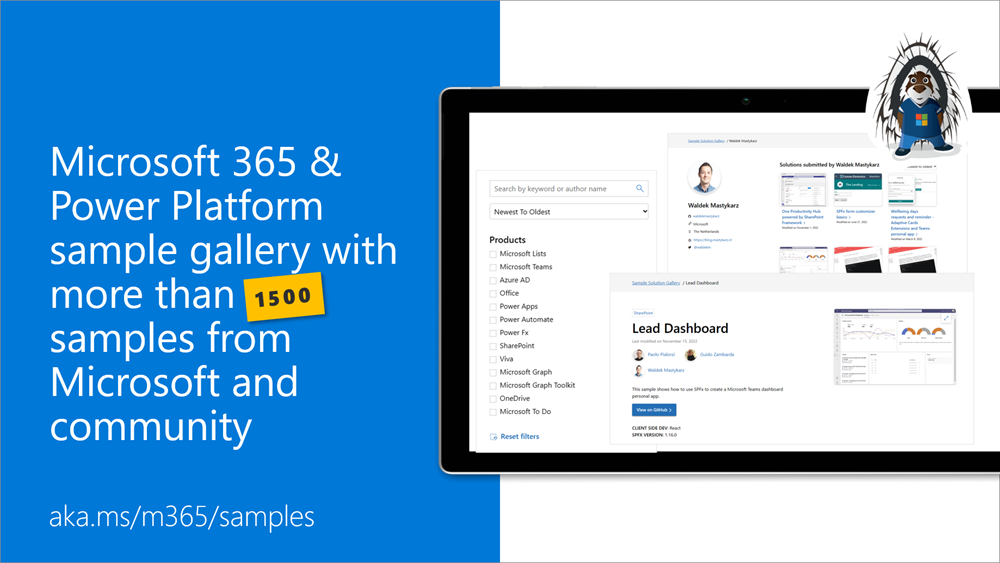
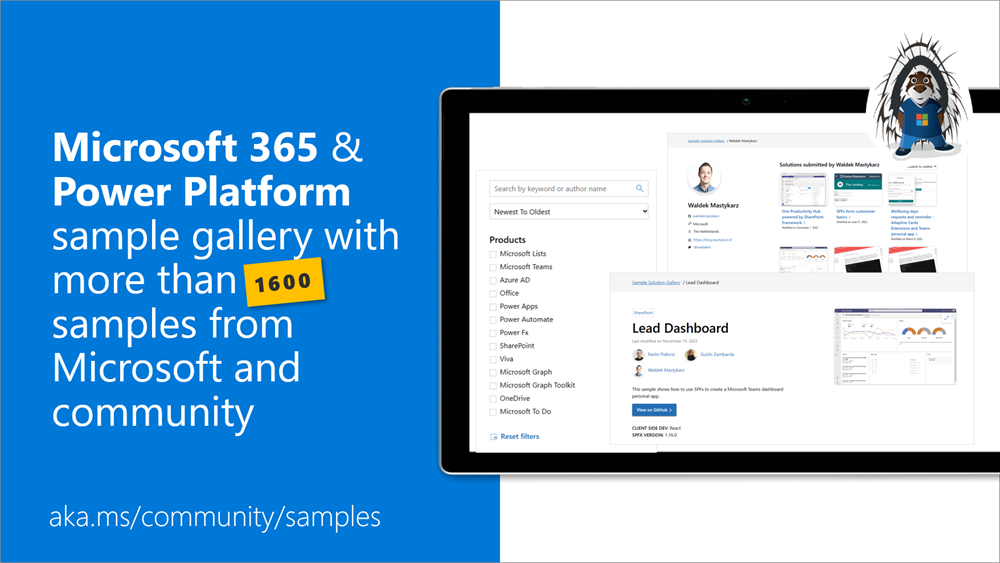
may monthly summary - contributors (#1371)

diff --git a/content/microsoft-365-platform-community-update/23-06-06/index.md b/content/microsoft-365-platform-community-update/23-06-06/index.md
@@ -1,12 +1,12 @@
 ---
 title: Microsoft 365 & Power Platform Community (PnP) - May 2023 update
-date: 2023-06-05T07:42:42.644Z
+date: 2023-06-06T04:42:42.644Z
 author: Vesa Juvonen
 githubname: VesaJuvonen
 categories:
   - Microsoft 365 & Power Platform Community update
 images:
-  - images/apr-23-promo.png
+  - images/may-23-promo.png
 tags:
   - Office Add-ins
   - Extensions
@@ -19,7 +19,7 @@ tags:
   - Power Apps
   - Power Automate
 type: epic
-draft: true
+draft: false
 ---
 
 Microsoft 365 & Power Platform Community May 2023 update is out with a summary of the latest guidance, samples, and solutions from Microsoft or from the community for the community. 
@@ -81,7 +81,7 @@ All of the cool samples for Microsoft 365 and Power Platform are listed in the u
 
 ## Key contributors to the May 2023 update
 
-![Thank you](images/thankyou-apr23.png)
+![Thank you](images/thankyou-may23.png)
 
 Here’s the list of active contributors (in alphabetical order) since last release details in GitHub repositories or community channels. Community is really about building tooling and knowledge together with the community for the community, so your contributions are highly valued across the Microsoft 365 & Power Platform customers, partners and obviously also at Microsoft.
 
@@ -93,139 +93,123 @@ In this blog post we callout contributors in the Microsoft 365 & Power Platform 
 
 ### Community people
 
-* x[Abderahman Moujahid](https://github.com/Abderahman88) | Abderahman88
-* xAbdul Wahab (Dynamics Technology Systems)
-* x[Abhijeet Jadhav](https://twitter.com/jadhav_jeet) | @jadhav_jeet
 * [Adam Wójcik](https://twitter.com/Adam25858782) (Hitachi Energy) | @Adam2585878
-* x[Ahmad Mozaffar](https://twitter.com/AhmadMozaffar99) | AhmadMozaffar99 
-* x[Aimery Thomas](https://twitter.com/aimery_thomas) | @aimery_thomas
+* [Aimery Thomas](https://twitter.com/aimery_thomas) | @aimery_thomas
 * [Albert-Jan Schot](https://twitter.com/appieschot) (BLIS Digital) | @Appieschot
-* x[Alex MacLachlan](https://github/com/alex-mcla) | alex-mcla
-* x[Aleksandr Sapozhkov](https://github.com/shurick81) (Rillion AB) | shurick81
-* x[Aman Panjwani](https://twitter.com/aman_p17) | @aman_p17
+* [Aleksandr Sapozhkov](https://github.com/shurick81) (Rillion AB) | shurick81
 * [Anand Ragav](https://twitter.com/anandVragav) (Ericsson) | @anandVragav
-* x[André Lage](https://twitter.com/aaclage) (Datalynx AG) | @aaclage
-* x[Andreas Omayrat](https://github.com/andreasomayrat) (Sherpas Group AB) | andreasomayrat
+* [Andrew Benson](https://github.com/ViewPorter) | ViewPorter
 * [Andrew Connell](https://twitter.com/andrewconnell) (Voitanos) | @Andrewconnell
-* x[Andrew Koltyakov](https://twitter.com/andrewkoltyakov) (ARVO Systems) | @Andrewkoltyakov
-* x[andrewjymoon](https://github.com/andrewjymoon) | andrewjymoon
-* x[Angelo Gulisano](https://twitter.com/angelog1908) (Npo Sistemi) | @angelog1908
+* [Andrew Koltyakov](https://twitter.com/andrewkoltyakov) (ARVO Systems) | @Andrewkoltyakov
 * [Anoop Tatti](https://twitter.com/anooptells) (Content+Cloud) | @Anooptells
+* [Apola Kipso](https://github.com/apolakipso) | apolakipso
 * [Arjun Menon](https://twitter.com/arjunumenon) (Tata Consulting Services) | @Arjunumenon
 * Aziz Gassara 
-* [Beau Cameron](https://twitter.com/Beau__Cameron) (Aerie Consulting) | @Beau\_\_Cameron
-* x[Chad Eiserloh](https://github.com/c-eiser13) (hubley) | c-eiser13
+* [Beau Cameron](https://twitter.com/Beau__Cameron) (DMI) | @Beau\_\_Cameron
 * [Chandani Prajapati](https://twitter.com/Chandani_SPD)  (Rapid Circle) | @Chandani_SPD
 * [Chris Kent](https://twitter.com/theChrisKent) (Takeda) | @TheChrisKent
-* x[Christian Nesmark](https://github.com/cnesmark) | cnesmark
+* [Chris Lizon](https://github.com/ChrisLizon) | ChrisLizon
+* [Christian Nesmark](https://github.com/cnesmark) | cnesmark
 * [Dan Toft](tanddant) (Evobis) | @tanddant
-* x[Daniel Christian](https://twitter.com/dchristian19) | @dchristian19
-* x[Dennis Goedegebuure](https://twitter.com/expiscornovus) (Ultima Business Solutions) | Expiscornovus
 * Daniel Turley (Avanade)
+* [David Elsner](https://github.com/web265p3) (HF Mixing Group) | web265p3
+* [Dayana Hristova](https://github.com/makarovv) (glueckkanja-gab) | makarovv
 * [Derek Cash Peterson](https://www.twitter.com/spdcp) (Sympraxis Consulting) | @Spdcp
+* [Diksha Bhura](https://twitter.com/BhuraDiksha) | @BhuraDiksha
 * [Divya Akula](https://twitter.com/_divyaakula) | @_divyaakula
-* x[dhiabedoui](https://github.com/dhiabedoui) | dhiabedoui
-* x[Don Kirkham](https://www.twitter.com/DonKirkham) (DMI, Inc) | @DonKirkham
+* [Ejaz Hussain](https://twitter.com/EjazHussain_) (Content & Cloud) | @EjazHussain_
 * [Elio Struyf](https://twitter.com/eliostruyf) (Struyf Consulting) | @Eliostruyf
 * [Eric Overfield](https://twitter.com/EricOverfield) (PixelMill) | @EricOverfield
 * [Erwin van Hunen](https://twitter.com/erwinvanhunen) (Rencore) | @Erwinvanhunen
 * [Eswar Prakash](https://twitter.com/eswaratwork) (Resonate) | @eswaratwork
-* x[Gizzelle Akin](https://twitter.com/gizzelleakin) | @gizzelleakin
 * [Harminder Singh](https://twitter.com/Harminder_Sethi) | @Harminder_Sethi
 * [Ganesh Sanap](https://twitter.com/ganeshsanap20) | @GaneshSanap20
 * [Gautam Sheth](https://twitter.com/gautamdsheth) (Valo Solutions) | @Gautamdsheth
-* x[Geetha Sivasailam](https://twitter.com/gsived) (Artis Consulting) | @GSiVed
-* [Giacomo Pozzoni](https://github.com/jackpoz) | jackpoz
-* x[Gitwey](https://github.com/Gitwey) | Gitwey
-* x[Gizzelle Akin](https://twitter.com/gizzelleakin) | @gizzelleakin
-* x[Gretchun Kim](https://github.com/gretchunkim) (Crowell & Moring LLP) | gretchunkim
-* x[Harminder Singh](https://twitter.com/Harminder_Sethi) | @Harminder_Sethi
+* [Geetha Sivasailam](https://twitter.com/gsived) (Artis Consulting) | @GSiVed
+* [Giacomo Pozzoni](https://github.com/jackpoz) (Stena Group IT) | jackpoz
+* [Gretchun Kim](https://github.com/gretchunkim) (Crowell & Moring LLP) | gretchunkim
+* [Harminder Singh](https://twitter.com/Harminder_Sethi) | @Harminder_Sethi
 * [Hilton Giesenow](https://github.com/HiltonGiesenow) | HiltonGiesenow
 * Houssem Ayadi
-* x[Jake Stanger](https://github.com/JakeStanger) | JakeStanger
 * [James Eccles](https://github.com/jameseccles) | jameseccles
-* x[Jarbas Horst](https://github.com/JarbasHorst) (Staffbase) | JarbasHorst
+* [Jarbas Horst](https://github.com/JarbasHorst) | JarbasHorst
 * [Jasey Waegebaert](https://github.com/Jwaegebaert) (GMI Group) | Jwaegebaert
 * [João Ferreira](https://twitter.com/Joao12Ferreira) | @Joaoferreira
 * [João J. Mendes](https://twitter.com/joaojmendes) (Staffbase) | @Joaojmendes
 * [Joel Rodrigues](https://twitter.com/JoelFMRodrigues) (Storm Technology) | @JoelFMRodrigues
 * [Jonathan Weaver](https://twitter.com/j_weaver74) (Smarter Consulting) | @j_weaver74 
 * [Julie Turner](https://twitter.com/jfj1997) (Sympraxis Consulting) | @Jfj1997
+* [Jürgen Rosenthal-Buroh](https://github.com/JuergenRB) | JuergenRB
 * [Kasper Bo Larsen](https://twitter.com/kasperbolarsen) (Fellowmind Denmark) | @kasperbolarsen
+* [Kalle Mansikkaniemi](https://github.com/djsladi) | djsladi
+* [Katerina Chernevskaya](https://github.com/Katerina-Chernevskaya) | Katerina-Chernevskaya
 * [Keith Atherton](https://twitter.com/MrKeithAtherton) | @MrKeithAtherton
 * Kevin Dibb (Chemours)
-* x[Kjetil Ødegaarden](https://github.com/kjetilodegaarden) (PointTaken) | kjetilodegaarden
-* x[Konrad Kolodziejak](https://github.com/wilecoyotegenius) (Capgemini) | wilecoyotegenius
+* [Kinga Kazala](https://twitter.com/kinga_kazala) (ETH Zürich) | @kinga_kazala
 * [Kunj Sangani](https://twitter.com/sanganikunj) | @sanganikunj
+* [Larry Lau](https://github.com/larry-lau) (Habanero Consulting Groups) | larry-lau
 * [Laura Kokkarinen](https://twitter.com/LauraKokkarinen) (Sulava) | @LauraKokkarinen
 * [Lee Ford](https://twitter.com/lee_ford) (Symity) | @lee_ford
 * [Leon Armston](https://twitter.com/LeonArmston) (Intelogy) | @LeonArmston
 * [Leslie Crook](https://twitter.com/Lesley_wolan) (CloudWay) | @Lesley_wolan
-* x[lilealdai](https://github.com/lilealdai) | liledai
 * [Lotsamocha01](https://github.com/Lotsamocha01) | Lotsamocha01
 * [Luise Freese](https://twitter.com/LuiseFreese) (M365Princess) | @LuiseFreese
 * [Marc D Anderson](https://twitter.com/sympmarc) (Sympraxis Consulting) | @Sympmarc
-* x[Marco Sacchi](https://github.com/marco-sacchi) (Modulo srl) | marco-sacchi
+* [Markus Langer](https://github.com/MarkusLanger) | MarkusLanger
 * [Markus Möller](https://twitter.com/Moeller2_0) (Avanade) | @Moeller2_0
 * [Martin Heusser](https://twitter.com/mozzeph) (Houlihan Lokey) | @mozzeph
+* [Martin Loitzl](https://github.com/mloitzl) (Swiss Life) | mloitzl
 * [Martin Lingstuyl](https://twitter.com/martinlingstuyl) (I4-YOU)| @Martinlingstuy
 * [Mathijs Verbeeck](https://github.com/MathijsVerbeeck) | MathijsVerbeeck
 * [Matt Beard](https://twiter.com/mattybeard) (Data8) | @MattyBeard 
 * [Matt Collins-Jones](https://twitter.com/D365Geek) (Capgemini) \| @D365Geek
-* x[Matt Jimison](https://twitter.com/mjimison) (Takeda) |  @mjimison
 * [Matteo Serpi](https://github.com/srpmtt) (Avanade) | srpmtt
 * [Michaël Maillot](https://twitter.com/michael_maillot) (OnePoint) | @michael_maillot
-* x[Michał Romiszewski](https://twitter.com/romiszewski) | @romiszewski
-* x[Miguel Angel García](https://twitter.com/miangama) | @Miangama
+* [Michał Romiszewski](https://twitter.com/romiszewski) | @romiszewski
 * [Milan Holemans](https://github.com/milanholemans) (VanRoey.be) | milanholeman
 * [mikezimm](https://github.com/mikezimm) | mikezimm
-* x[mmi-wp](https://github.com/mmi-wp) | mmi-wp
-* x[Mohammed Amer](https://github.com/mohammadamer) (Atea Global Services) | mohammadamer
+* [Mohammed Amer](https://github.com/mohammadamer) (Atea Global Services) | mohammadamer
 * [Mohammed Ashiq Faleel](https://twitter.com/AshiqFaleel) (Avanade) | @ashiqfaleel
-* x[Nathalie Leenders](https://twitter.com/NathLeenders) (Chemours) | @NathLeenders
+* [Nathalie Leenders](https://twitter.com/NathLeenders) (Chemours) | @NathLeenders
 * [Nanddeep Nachan](https://twitter.com/NanddeepNachan) | @nanddeepNachan
-* x[Nati Turtledove](https://twitter.com/NatiTurts) | @NatiTurts
 * [Nick Brown](https://twitter.com/techienickb) (JISC) | @techienickb
 * [Nico De Cleyre](https://twitter.com/NicoDeCleyre) (Ordina Belgium) | NicoDeCleyre
-* x[Nicolas Silberstein Camara](https://github.com/nickscamara) | nickscamara
-* x[Nishkalank Bezawada](https://github.com/NishkalankBezawada) (TietoEVRY) | NishkalankBezawada
+* [Nicolai Lassesen](https://github.com/NicolaiLassesen) (Capital Four Management A/S) | NicolaiLassesen
+* [Nishkalank Bezawada](https://github.com/NishkalankBezawada) (TietoEVRY) | NishkalankBezawada
 * [Paolo Pialorsi](https://twitter.com/PaoloPia) (PiaSys.com) | @PaoloPia
 * [Patrick Lamber](https://twitter.com/patricklamber) (ExpertsInside) | @Patricklamber
 * [Paul Bullock](https://twitter.com/pkbullock) (Avanade) | @pkbullock
-* x[Paul Schaeflein](https://twitter.com/paulschaeflein) (AddIn365) | @Paulschaeflein
+* [Paul Schaeflein](https://twitter.com/paulschaeflein) (AddIn365) | @Paulschaeflein
 * Phiwayinkosi Khanya Dludlu
-* x[Preethika Kiruveedula](https://github.com/preethikakiru) | preethikakiru
-* x[Ramin Ahmadi](https://twitter.com/raminahmadi1986) (Content and Cloud) | @raminahmadi1986
-* x[rentu](https://github.com/SLdragon) | SLdragon
+* [Prashant Boricha](https://twitter.com/prashantboricha) | @prashantboricha
+* [Preethika Kiruveedula](https://github.com/preethikakiru) | preethikakiru
 * [Reshmee Auckloo](https://www.twitter.com/ReshmeeAuckloo) (Pension Protection Fund) | @ReshmeeAuckloo
 * [reusto](https://twitter.com/reusto) | @reusto
 * [Rick Van Rousselt](https://twitter.com/RickVanRousselt) (Advantive) | @RickVanRousselt
-* x[Robin Rosengrün](https://twitter.com/power_r2) (EnBw) | @power_r2
-* x[ruslan-s](https://github.com/ruslan-s) | ruslan-s
+* [Roberto Ramon](https://twitter.com/Rober_Ramon) (ClearPeople) | @Rober_Ramon
+* [Robin Rosengrün](https://twitter.com/power_r2) (EnBw) | @power_r2
+* [Rodrigo Pinto](https://github.com/ScoutmanPt) (Storm Technologies) | ScoutmanPt
 * [Saurabh K. Tripathi](https://twitter.com/saurabh7019) (Avanade) | @saurabh7019
 * [Sean Kelly](https://twitter.com/@SeanKe11y) (HCLTech) |@SeanKe11y
-* x[Sergej Schwabauer](https://github.com/SPFxAppDev) (Aurum) | SPFxAppDev
 * [Sergei Sergeev](https://twitter.com/sergeev_srg) | @Sergeev_srg
 * [Shane Young](https://twitter.com/ShanesCows) (PowerApps911) | @ShanesCows
-* x[Sharon Weaver](https://www.twitter.com/sharoneweaver) (Smarter Consulting) | @Sharoneweaver
+* [Sharon Weaver](https://www.twitter.com/sharoneweaver) (Smarter Consulting) | @Sharoneweaver
 * [Siddharth Vaghasia](https://twitter.com/siddh_me) | @Siddh_me
 * [Smita Nachan](https://twitter.com/smitanachan) | @SmitaNachan
-* x[Sohil Bhalla](https://github.com/sohilbhalla/) (Codeless Technology B.V.) | sohilbhalla
 * [Stefan Bauer](https://twitter.com/StfBauer) (n8d) | @StfBauer
 * [Stephan Bisser](https://twitter.com/stephanbisser) (Solvion) | @Stephanbisser
 * [Stephan van Rooij](https://twitter.com/svrooij) | @svrooij
-* x[Steve Beaugé](https://github.com/stevebeauge) (Solutions pour SharePoint) | stevebeauge
-* x[Taylor Becktold](https://github.com/TBecktold) | TBecktold
+* [Stéphane Toubiana](https://github.com/stoubian) | stoubian
+* [Sven Bru](https://twitter.com/svenbru) (B2Bru Bv) | @svenbru
 * [Tetsuya Kawahara](https://twitter.com/techan_k) | @Techan_k
 * [Thomas Gölles](https://twitter.com/thomyg) (Solvion) | @Thomyg
+* [Tobias Blum](https://github.com/nmtoblum) (netmedianer GmbH) | nmtoblum
 * [Tobias Fenster](https://twitter.com/tobiasfenster) (4PS Germany) | @tobiasfenster
 * [Todd Klindt](https://twitter.com/toddklindt) | @ToddKlindt
-* x[Tomi Tavela](https://twitter.com/tavikukko) (Staffbase) | @tavikukko
-* [Valeras Narbutas](https://twitter.com/ValerasNarbutas) | @ValerasNarbutas
-* x[Victor Romanov](https://github.com/VRomanovTau) (Taurus Quadra Ltd) | VRomanovTau
+* [Tomi Tavela](https://twitter.com/tavikukko) (Staffbase) | @tavikukko
+* [Valeras Narbutas](https://twitter.com/ValerasNarbutas) (macaw) | @ValerasNarbutas
 * [Veronique Lengelle](https://twitter.com/veronicageek) (CPS) | @Veronicageek
 * [Will Cooper](https://github.com/wwcoop) | wwcoop
-* x[wuxiaojun514](https://github.com/wuxiaojun514) | wuxiaojun514
 * [Yves Habersaat](https://twitter.com/yhabersaat) | @yhabersaat
 
 ### Companies
@@ -234,115 +218,104 @@ Here are the companies, which provided support the community initiative for this
 
 > If you'd like to see your company logo here,  please let us know and share the logo with us. Thx.
 
-![march companies](images/apr-23-companies.png)
+![may companies](images/may-23-companies.png)
 
 * [Addin365](https://www.addin365.com/)
 * [Arvo Systems](https://www.arvosys.com/)
 * [BLIS Digital](https://blisdigital.com/en/)
-* [Codeless Technology B.V.](https://codeless.com/)
 * [CPS](https://www.cps.co.uk/)
+* [ClearPeople](https://www.clearpeople.com/)
 * [Content+Cloud](https://contentandcloud.com/)
 * [DMI](https://dminc.com/)
 * [Experts Inside GmbH](https://www.expertsinside.com/en/)
 * [Fellowmind](https://www.fellowmindcompany.com/)
 * [Intelogy](https://www.intelogy.co.uk/)
 * [I4-YOU](https://i4-you.com/)
+* [Macaw](https://www.macaw.net/eng/)
 * [N8D - Innovation and Design Agency](https://n8d.at/)
 * [onepoint](https://www.groupeonepoint.com/en/)
 * [Piasys](https://piasys.com/)
 * [PixelMill](https://pixelmill.com/)
 * [Rapid Circle](https://en.rapidcircle.com/)
 * [Rencore](https://rencore.com/)
-* [Sherpas](https://www.sherpas.se/)
-* [Solutions Pour SharePoint](https://sosp.fr/)
 * [Solvion](https://www.solvion.net/)
 * [Staffbase GmbH](https://staffbase.com/en/)
 * [Storm Technology](https://www.storm.ie/)
 * [Struyf Consulting](https://www.eliostruyf.com/)
 * [Sulava](https://sulava.com/en/home/)
 * [Sympraxis Consulting](https://sympraxisconsulting.com/)
-* [Ultima Business Solutions](https://www.ultima.com/)
 * [Voitanos](https://www.voitanos.io/)
 
 ### Microsoft people
 
 Here’s the list of Microsoft people who have been closely involved with the Microsoft 365 Platform community work during last month.
 
-* xAjit Kalele (Microsoft)
-* x[Alejandro Lopez](https://twitter.com/soyalejolopez) (Microsoft) | @soyalejolopez
 * [Alex Terentiev](https://twitter.com/alexaterentiev) (Microsoft) | @Alexaterentiev
-* xAlexis Kinzelin (Microsoft)
-* xAmit Oberoi (Microsoft)
 * [Ankit Govil](https://twitter.com/ankitgovil) (Microsoft) | @ankitgovil
 * [April Dunnam](https://twitter.com/aprildunnam) (Microsoft) | @Aprildunnam
-* xAvadhesh Dubey (Microsoft)
 * [Ayça Baş](https://twitter.com/aycabs) (Microsoft) | @Aycabs
-* x[Barnam Bora](https://twitter.com/barnambora) (Microsoft) | @barnambora
+* [Barnam Bora](https://twitter.com/barnambora) (Microsoft) | @barnambora
 * [Bert Jansen](https://twitter.com/O365Bert) (Microsoft) | @O365Bert
-* x[Bill Baer](https://twitter.com/billbaer) (Microsoft) | @billbaer
+* [Bill Baer](https://twitter.com/billbaer) (Microsoft) | @billbaer
 * [Bob German](https://twitter.com/Bob1German) (Microsoft) | @Bob1German
-* x[Brian Jackett](https://twitter.com/BrianTJackett) (Microsoft) | BrianTJackett
-* xCarol Mbasinge Kigoonya (Microsoft)
+* [Brian Jackett](https://twitter.com/BrianTJackett) (Microsoft) | BrianTJackett
 * [Cathy Dew](https://twitter.com/catpaint1) (Microsoft) | @Catpaint
-* xChandrika Duggirala
 * Chris Garty (Microsoft) 
 * [Daniel Carrasco](https://twitter.com/danielserver) (Microsoft) | @danielserver
 * [Daniel Laskewitz](https://twitter.com/Laskewitz) (Microsoft) | @Laskewitz
 * [Dan Wahlin](https://twitter.com/DanWahlin) (Microsoft) | @DanWahlin
 * [David Chesnut](https://twitter.com/davidchesnut) (Microsoft) | @Davidchesnut
-* x[Davide Mauri](https://twitter.com/mauridb) (Microsoft) | @mauridb
-* x[David de Matheu](https://twitter.com/ddematheu) (Microsoft) | @ddematheu
+* [Davide Mauri](https://twitter.com/mauridb) (Microsoft) | @mauridb
+* [David de Matheu](https://twitter.com/ddematheu) (Microsoft) | @ddematheu
 * [ddematheu2](https://github.com/ddematheu2) | ddematheu2
 * [David Rousset](https://twitter.com/davrous) (Microsoft) | @davrous 
 * [David Warner II](https://twitter.com/DavidWarnerII) (Microsoft) | @DavidWarnerII
 * [DC Padur](https://twitter.com/dcpadur) (Microsoft) | @cdpadur
-* x[Dewain Robinson](https://twitter.com/dewain76) (Microsoft) | @dewain76
-* xEric Scherlinger (Microsoft)
+* Eric Scherlinger (Microsoft)
 * [Fabian Williams](https://twitter.com/fabianwilliams) (Microsoft) | @fabianwilliams
 * [Garry Trinder](https://twitter.com/garrytrinder) (Microsoft) | @Garrytrinder
 * [Gary Pretty](https://twitter.com/GaryPretty) (Microsoft)
 * [Gavin Barron](https://twitter.com/gavinbarron) (Microsoft) | @gavinbarron
 * [Hugo Bernier](https://twitter.com/bernierh) (Microsoft) | @Bernierh
-* x[Jason Johnston](https://twitter.com/JasonJohMSFT) (Microsoft) | @JasonJohMSFT
+* [James Eccles](https://github.com/jameseccles) (Microsoft) | jameseccles
+* [Jason Johnston](https://twitter.com/JasonJohMSFT) (Microsoft) | @JasonJohMSFT
 * [Jethro Seghers](https://github.com/jesegher) (Microsoft) | jesegher
 * Ji Dong (Microsoft)
-* x[Juan Balmori](https://twitter.com/@juaneloBalmori) ( Microsoft) | @juaneloBalmori
-* xJunjie Lie (Microsoft)
+* [Juan Balmori](https://twitter.com/@juaneloBalmori) ( Microsoft) | @juaneloBalmori
 * [Jocelyn Panchal](https://twitter.com/JocelynP_PM) (Microsoft) | @JocelynP_PM
 * [John Miller](https://twitter.com/jmillerdev)  (Microsoft)| @jmillerdev
-* x[Jose Barreto](https://twitter.com/josebarreto) (Microsoft) | @josebarreto
-* xKelly Bowen-McCombs (Microsoft)
-* xKristen Womack (Microsoft)
+* [Jose Barreto](https://twitter.com/josebarreto) (Microsoft) | @josebarreto
+* Kelly Bowen-McCombs (Microsoft)
+* Kristen Womack (Microsoft)
 * [Koen Zomers](https://twitter.com/koenzomers) (Microsoft) | @Koenzomers
-* x[Laura Graham](https://github.com/Lauragra) (Microsoft) | Lauragra
-* x[Linda Lu Cannon](https://github.com/lindalu-MSFT) - (Microsoft) | lindalu-MSFT
+* [Laura Graham](https://github.com/Lauragra) (Microsoft) | Lauragra
+* [Linda Lu Cannon](https://github.com/lindalu-MSFT) - (Microsoft) | lindalu-MSFT
 * [Luca Bandinelli](https://github.com/lucaband) (Microsoft) | lucaband
 * [Maisa Rissi](https://twitter.com/maisarissi_msft) (Microsoft) | @maisarissi_msft
 * Marcus Carvalho (Microsoft)  
-* x[Marcus Vinicius Castro](https://github.com/marcus-castro-sp) (Microsoft) | marcus-castro-sp
+* [Marcus Vinicius Castro](https://github.com/marcus-castro-sp) (Microsoft) | marcus-castro-sp
 * [Mark Kashman](https://twitter.com/MKashman) (Microsoft) | @MKashman
 * Matt Townsend (Microsoft) 
-* xMatthew McGrath (Microsoft)
 * [Mikael Svenson](https://twitter.com/mikaelsvenson) (Microsoft) | @Mikaelsvenson
 * [Patrick Rodgers](https://twitter.com/mediocrebowler) (Microsoft) | @Mediocrebowler
 * [Phil Topness](https://twitter.com/topness) (Microsoft) | @topness
-* x[Rabeb Othmani](https://twitter.com/Rabeb_Othmani) (Microsoft) | @Rabeb_Othmani
+* [Rabeb Othmani](https://twitter.com/Rabeb_Othmani) (Microsoft) | @Rabeb_Othmani
 * [Rabia Williams](https://twitter.com/williamsrabia) (Microsoft) | @Williamsrabia
-* xRajdeep Chanda (Microsoft)
-* x[Rick Kirkham](https://github.com/Rick-Kirkham) (Microsoft) | Rick-Kirkham
-* x[Sam Ramon](https://github.com/samantharamon) (Microsoft) | samantharamon
+* Rajdeep Chanda (Microsoft)
+* [Rick Kirkham](https://github.com/Rick-Kirkham) (Microsoft) | Rick-Kirkham
+* [Sam Ramon](https://github.com/samantharamon) (Microsoft) | samantharamon
 * [Sanjay Joshi](https://twitter.com/sanjoshi) (Microsoft) | @sanjoshi
 * [Sébastien Levert](https://twitter.com/sebastienlevert) (Microsoft) | @Sebastienlevert
 * Sheena Makker (Microsoft)
-* x[Srinivas Varukala](https://twitter.com/svarukala) (Microsoft) | @svarukala
-* xStuart McCarthy (Microsoft) 
+* [Srinivas Varukala](https://twitter.com/svarukala) (Microsoft) | @svarukala
+* Stuart McCarthy (Microsoft) 
 * [Tomas Chladek](https://twitter.com/tomaschladek2) (Microsoft) | @tomaschladek2
 * [Tomomi Imura](https://twitter.com/girlie_mac) (Microsot) | @girlie_mac
 * [Vesa Juvonen](https://twitter.com/vesajuvonen) (Microsoft) | @Vesajuvonen
 * [Wajeed Shaikh](https://github.com/Wajeed-msft) | Wajeed-msft
 * [Waldek Mastykarz](https://twitter.com/waldekm) (Microsoft) | @Waldekm
 * [Wictor Wilen](https://twitter.com/wictor)(Microsoft) | @Wictor
-* x[Vincent Biret](https://twitter.com/baywet) (Microsoft) | @baywet
+* [Vincent Biret](https://twitter.com/baywet) (Microsoft) | @baywet
 * [Zach Rosenfield](https://twitter.com/Zrosenfield) (Microsoft) | @Zrosenfield
 * Zack Runner (Microsoft)
 

diff --git a/content/microsoft-365-platform-community-update/23-05-10/index.md b/content/microsoft-365-platform-community-update/23-05-10/index.md
@@ -18,7 +18,7 @@ tags:
   - Power Platform
   - Power Apps
   - Power Automate
-type: epic
+type: regular
 draft: false
 ---
 
